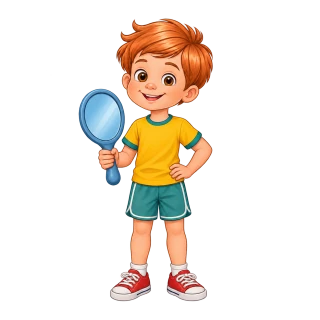
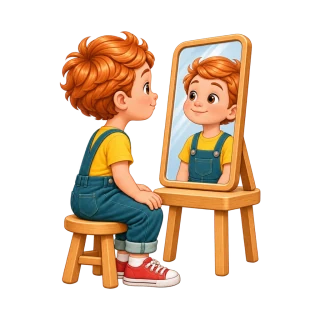
docs: refresh Android gallery and direction artwork

diff --git a/public/index.html b/public/index.html
@@ -59,28 +59,24 @@
           <div class="category-grid">
             <article class="category sonorants">
               <div class="category-copy">
-                <svg viewBox="0 0 24 24" aria-hidden="true"><path d="M5 9v6m4-10v14m6-14v14m4-10v6"/></svg>
                 <h3>Сонорные</h3><p>Р, Рь, Л, Ль</p>
               </div>
               <img class="category-hero" src="./assets/directions/sonorants.webp" alt="" width="104" height="152" loading="lazy" decoding="async">
             </article>
             <article class="category sibilants">
               <div class="category-copy">
-                <svg viewBox="0 0 24 24" aria-hidden="true"><path d="M3 7q3-4 7 0t11 0M3 12q3-4 7 0t11 0M3 17q3-4 7 0t11 0"/></svg>
                 <h3>Шипящие</h3><p>Ш, Ж, Ч, Щ</p>
               </div>
               <img class="category-hero" src="./assets/directions/sibilants.webp" alt="" width="104" height="152" loading="lazy" decoding="async">
             </article>
             <article class="category whistling">
               <div class="category-copy">
-                <svg viewBox="0 0 24 24" aria-hidden="true"><path d="M3 8h11a3 3 0 1 0-3-3M3 12h15a3 3 0 1 1-3 3M3 16h6"/></svg>
                 <h3>Свистящие</h3><p>С, Сь, З, Зь, Ц</p>
               </div>
               <img class="category-hero" src="./assets/directions/whistling.webp" alt="" width="104" height="152" loading="lazy" decoding="async">
             </article>
             <article class="category articulation">
               <div class="category-copy">
-                <svg viewBox="0 0 24 24" aria-hidden="true"><circle cx="12" cy="12" r="9"/><path d="M4 10c4 0 6-2 7-5 2 3 5 5 9 5M8 13h.01M16 13h.01M9 17q3 2 6 0"/></svg>
                 <h3>Артикуляция</h3><p>Упражнения для губ и языка</p>
               </div>
               <img class="category-hero" src="./assets/directions/articulation.webp" alt="" width="104" height="152" loading="lazy" decoding="async">
@@ -100,19 +96,19 @@
             </figure>
             <figure class="screen-card sibilants">
               <figcaption><h3>Выбор звука</h3></figcaption>
-              <div class="phone"><img src="./assets/screens/selection.webp" alt="Выбор шипящих: Ш и Ж синие, Ч и Щ зелёные" width="390" height="845" loading="lazy" decoding="async"></div>
+              <div class="phone"><img src="./assets/screens/selection.webp" alt="Выбор шипящих: Ш и Ж синие, Ч и Щ зелёные" width="390" height="867" loading="lazy" decoding="async"></div>
             </figure>
             <figure class="screen-card sonorants">
               <figcaption><h3>Звук Р</h3></figcaption>
-              <div class="phone"><img src="./assets/screens/sound.webp" alt="Звук Р: Герка с синей буквой Р и игрушечной ракетой, упражнения готовятся" width="390" height="845" loading="lazy" decoding="async"></div>
+              <div class="phone"><img src="./assets/screens/sound.webp" alt="Звук Р: Герка нажимает кнопку на игрушечном роботе рядом с синей буквой Р" width="390" height="867" loading="lazy" decoding="async"></div>
             </figure>
             <figure class="screen-card sonorants">
               <figcaption><h3>Звук Рь</h3></figcaption>
-              <div class="phone"><img src="./assets/screens/soft-sound.webp" alt="Звук Рь: Герка с зелёной буквой Рь и репкой, упражнения готовятся" width="390" height="845" loading="lazy" decoding="async"></div>
+              <div class="phone"><img src="./assets/screens/soft-sound.webp" alt="Звук Рь: Герка тянет репку за ботву рядом с зелёным обозначением Рь" width="390" height="867" loading="lazy" decoding="async"></div>
             </figure>
             <figure class="screen-card articulation">
               <figcaption><h3>Артикуляция</h3></figcaption>
-              <div class="phone"><img src="./assets/screens/articulation.webp" alt="Раздел Артикуляция: Герка Говорушкин с зеркалом и надпись Упражнения готовятся" width="390" height="845" loading="lazy" decoding="async"></div>
+              <div class="phone"><img src="./assets/screens/articulation.webp" alt="Раздел Артикуляция: Герка сидит перед зеркалом, упражнения готовятся" width="390" height="867" loading="lazy" decoding="async"></div>
             </figure>
           </div>
         </section>

diff --git a/public/styles.css b/public/styles.css
@@ -79,7 +79,6 @@ nav a:hover, .site-footer a:hover, .text-link:hover { text-decoration: underline
 .category-copy { flex: 1 1 10rem; min-width: 0; padding-block: 24px; }
 .category-copy > * + * { margin-top: 8px; }
 .category .category-hero { width: 104px; height: 152px; object-fit: cover; flex: 0 0 104px; margin-left: auto; }
-.category svg { color: var(--primary); }
 .category p { font-size: .9375rem; }
 .sonorants { background: var(--mint); }
 .sibilants { background: var(--blue); }

diff --git a/docs/STATE.md b/docs/STATE.md
@@ -1,18 +1,19 @@
 # Состояние сайта
 
-18.11.2026. Сайт знакомит с «Говорушкиным», Android-приложением для домашней
+19.11.2026. Сайт знакомит с «Говорушкиным», Android-приложением для домашней
 речевой практики детей 4–7 лет по рекомендациям логопеда.
 
-- Сайт показывает четыре направления и шесть экранов Android-приложения.
-  Галерея показывает старт без входа и раздел «Родителям» в обычной сборке.
-  Проверка покупки проводится
-  в отладочной сборке приложения.
+- Сайт показывает четыре направления с новыми иллюстрациями Герки и шесть
+  снимков обычной Android-сборки. Галерея включает старт без входа,
+  раздел «Родителям», выбор звука, Р, Рь и «Артикуляцию».
+  Проверка покупки проводится в отладочной сборке приложения.
 - [GitHub Pages](https://4ictota.github.io/govorushkin/) публикует папку
   `public/`. Для обратной связи используются [GitHub Issues](https://github.com/4ICTOTA/govorushkin/issues).
 
 ## Проверки
 
-- Обновлённая страница проверена в Chromium на ширинах 1440, 390 и 320 px
-  в обеих темах. Галерея открывается из навигации, шесть снимков и Nunito
-  загружаются. Проверены переход на лицензию и возврат на главную.
-- Переполнений, ошибок страницы и неудачных загрузок нет. Кадры сохранены перед публикацией. `git diff --check` и ссылки документации проверены.
+- Страница проверена в Chromium в 24 сценариях на ширинах от 320 до 1440 px,
+  в обеих темах, при масштабе текста 100% и 200%. Проверены навигация,
+  управление с клавиатуры, переход на лицензию и возврат на главную.
+- Все шесть снимков, иллюстрации и Nunito загружаются. Переполнений и ошибок
+  браузера нет. Локальные ссылки и `git diff --check` проверены.
